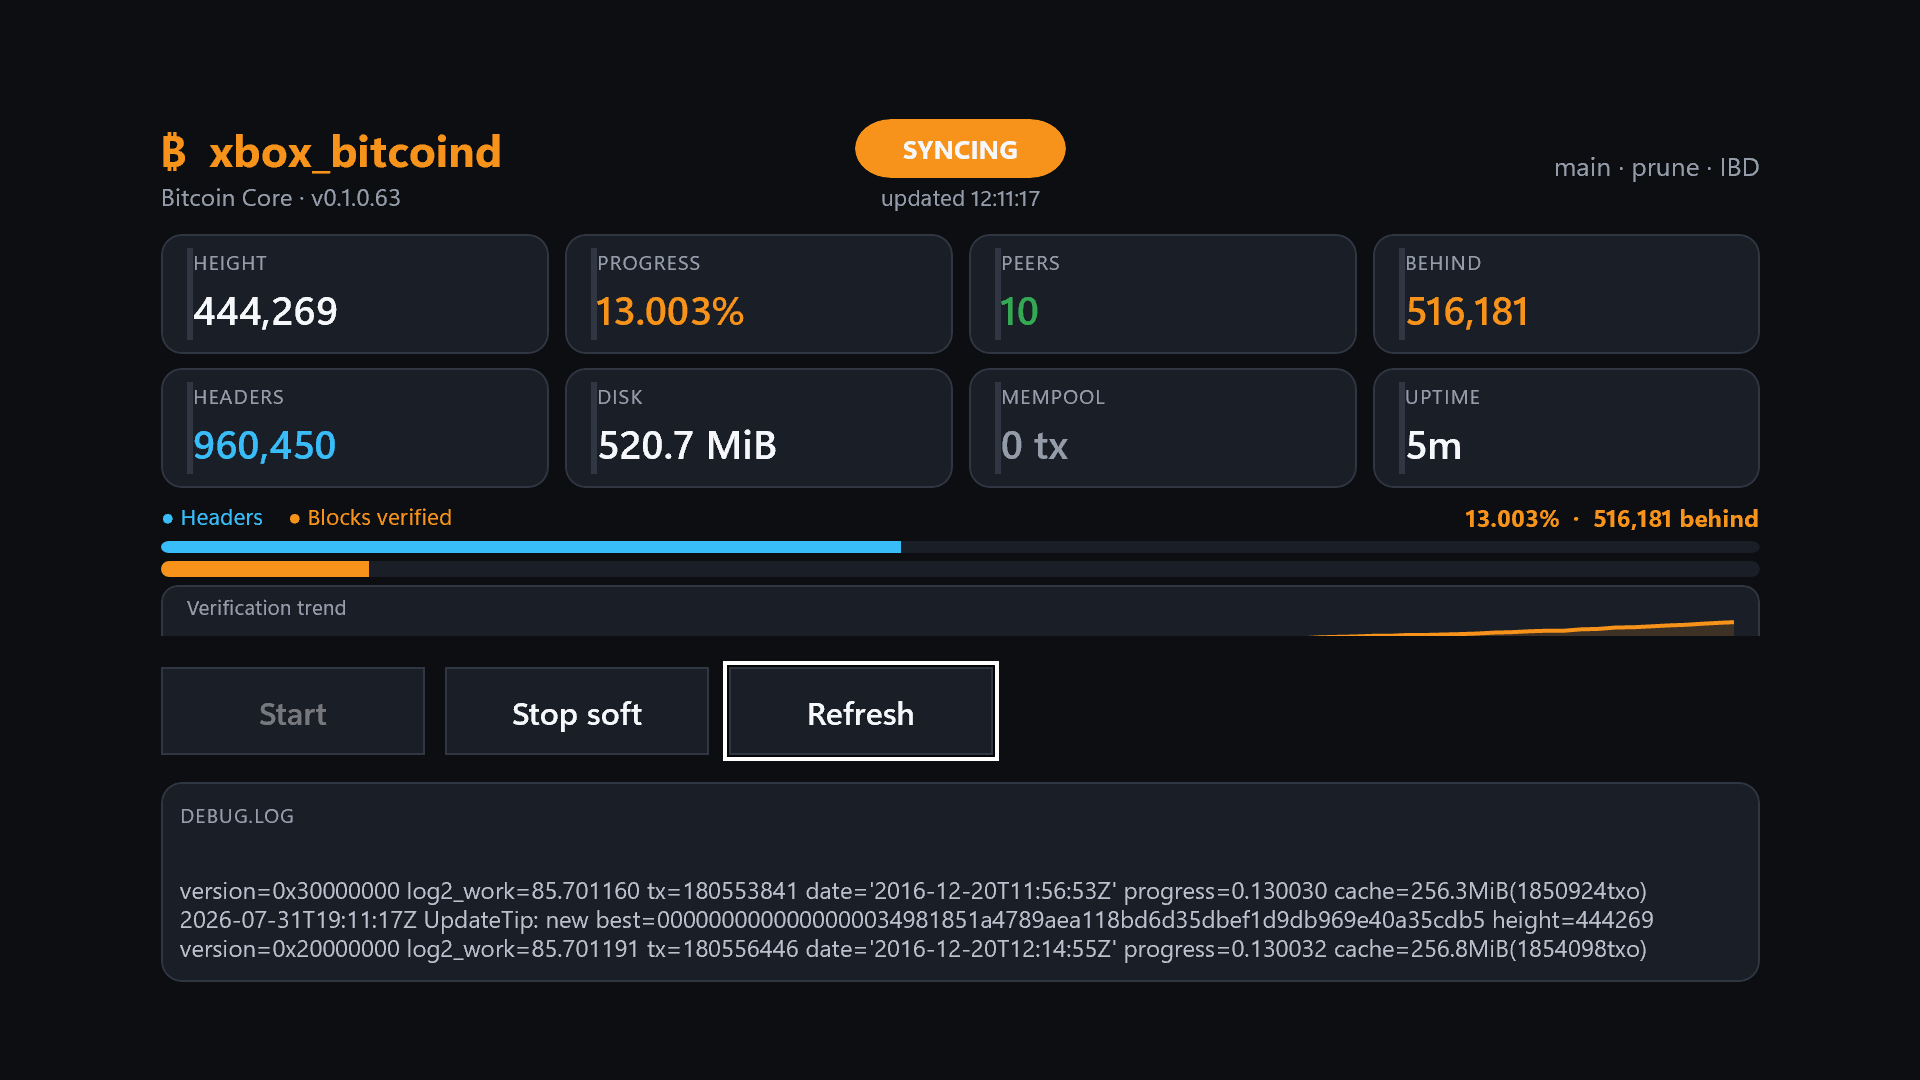
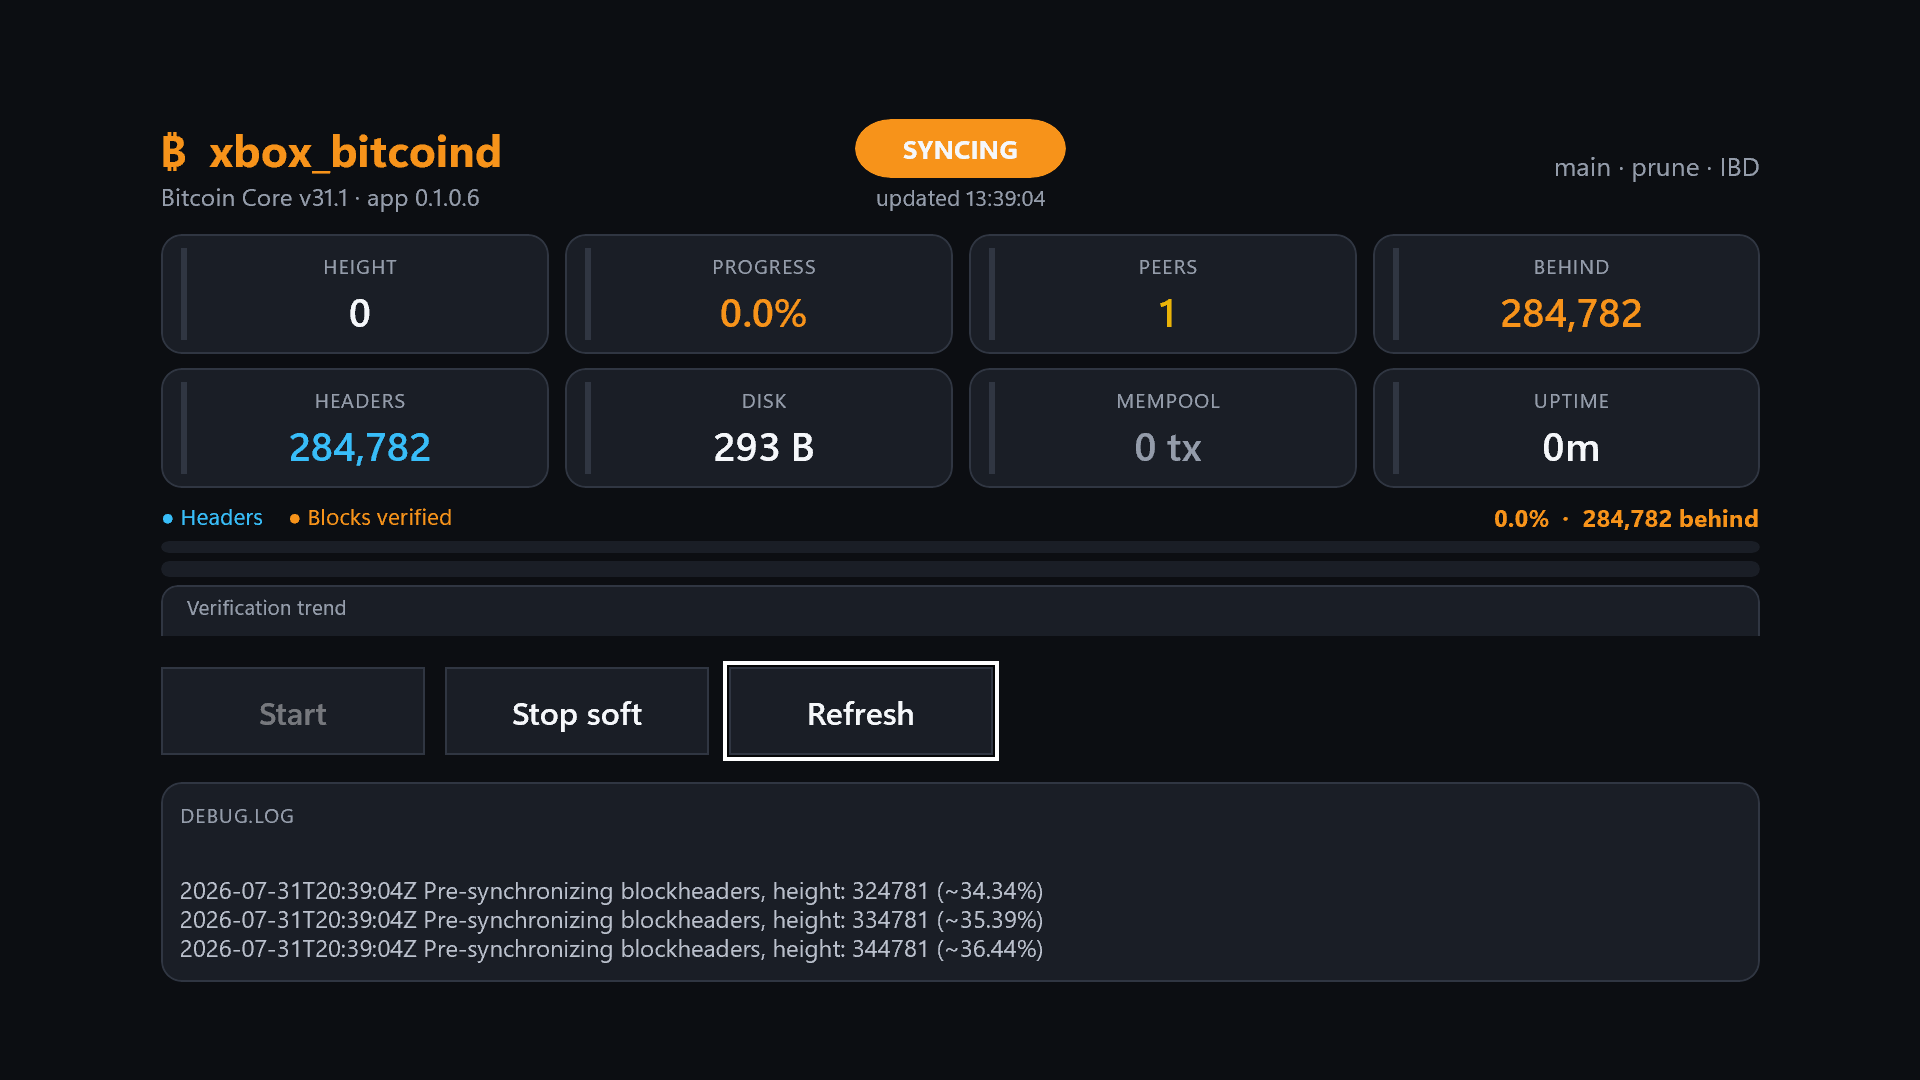
docs: refresh console screenshot and README for v0.1.1
Capture Device Portal frame of package 0.1.0.6 (Core v31.1 · app subtitle)
and align README / ui / docs index captions with release v0.1.1.

diff --git a/README.md b/README.md
@@ -15,9 +15,9 @@ Companion project on the same console: [xllama](https://github.com/gianlucamazza
 [![GitHub release](https://img.shields.io/github/v/release/gianlucamazza/xbox_bitcoind)](https://github.com/gianlucamazza/xbox_bitcoind/releases/latest)
 [![License: MIT](https://img.shields.io/badge/License-MIT-yellow.svg)](LICENSE)
 
-![Status dashboard on Xbox Series S](docs/assets/screenshot-console.png)
+![Status dashboard on Xbox Series S (package 0.1.0.6 / release v0.1.1)](docs/assets/screenshot-console.png)
 
-*Screenshot may lag the live package revision; check [docs/tracking.md](docs/tracking.md).*
+*Live capture, Series S Dev Mode — package **0.1.0.6** (GitHub Release **[v0.1.1](https://github.com/gianlucamazza/xbox_bitcoind/releases/tag/v0.1.1)**). Subtitle shows **Bitcoin Core v31.1 · app 0.1.0.6**. Live ops: [docs/tracking.md](docs/tracking.md).*
 
 ## Features
 
@@ -25,14 +25,15 @@ Companion project on the same console: [xllama](https://github.com/gianlucamazza
 - Mainnet pruned node (`prune=550`, outbound P2P, local RPC)
 - Controller-first **10-foot dashboard**: primary/secondary metrics, dual progress bars,
   session sparkline, rough **ETA**, live log tail
-- Clear versioning: **Core pin** vs **app MSIX** (e.g. `Bitcoin Core v31.1 · app 0.1.0.65`)
+- Clear versioning: **Core pin** vs **app MSIX** (e.g. `Bitcoin Core v31.1 · app 0.1.0.6`)
 - **Soft-stop** flush path (suspend → RPC `stop` → durable LevelDB; host wait default 180s)
 - Path-filtered CI + automated **GitHub Releases** on `v*` tags
 
 | | |
 |--|--|
 | Package identity | `GianlucaMazza.xboxbitcoind` · App Id `App` · type **Game** |
-| Live console rev | see [docs/tracking.md](docs/tracking.md) / `./scripts/node-status.sh` |
+| Latest release | **[v0.1.1](https://github.com/gianlucamazza/xbox_bitcoind/releases/tag/v0.1.1)** (MSIX e.g. `0.1.0.6`) |
+| Live console | `./scripts/node-status.sh` · [docs/tracking.md](docs/tracking.md) |
 | Datadir | `LocalState\bitcoin` |
 | Core pin | [config/bitcoin-core.pin](config/bitcoin-core.pin) (**v31.1**) |
 

diff --git a/docs/README.md b/docs/README.md
@@ -11,9 +11,10 @@ Snapshot (see also [ops.md](ops.md) · [tracking.md](tracking.md)):
 | | |
 |--|--|
 | Pin | Bitcoin Core **v31.1** (not the MSIX revision) |
-| Console package | `GianlucaMazza.xboxbitcoind` **0.1.0.65** (WithCore, **Game**) |
+| Console package | `GianlucaMazza.xboxbitcoind` **0.1.0.6** (WithCore, release **v0.1.1**, **Game**) |
+| Screenshot | [assets/screenshot-console.png](assets/screenshot-console.png) (live 0.1.0.6) |
 | Datadir | `LocalState\bitcoin` |
-| IBD | Mainnet in progress — live gates in [tracking.md](tracking.md) |
+| IBD | Mainnet (restarted after v0.1.1 deploy) — [tracking.md](tracking.md) |
 | Version labels | **Core pin** vs **app package** — see [ui.md](ui.md) · `generate-version-header.py` |
 
 ---

diff --git a/docs/ui.md b/docs/ui.md
@@ -4,7 +4,7 @@ Controller-first **10-foot** status UI for Series S Dev Mode (programmatic XAML)
 
 ![Status dashboard on console](assets/screenshot-console.png)
 
-*Screenshot package may lag console; live rev in [tracking.md](tracking.md). Dashboard: primary/secondary metrics, dual bars, sparkline, ETA.*
+*Live capture, package **0.1.0.6** (release **v0.1.1**): Core **v31.1 · app** subtitle, primary/secondary KPIs, dual bars, sparkline, log. Ops status: [tracking.md](tracking.md).*
 
 ## Best practices (10-foot / TV)
 

diff --git a/CHANGELOG.md b/CHANGELOG.md
@@ -17,6 +17,8 @@ and this project aims to follow [Semantic Versioning](https://semver.org/) for
 
 ### Changed
 
+- Docs screenshot refreshed for package **0.1.0.6** / release **v0.1.1**
+
 ## [0.1.1] — 2026-07-31
 
 Ops polish, UI/branding, and operator tooling after first public release.
